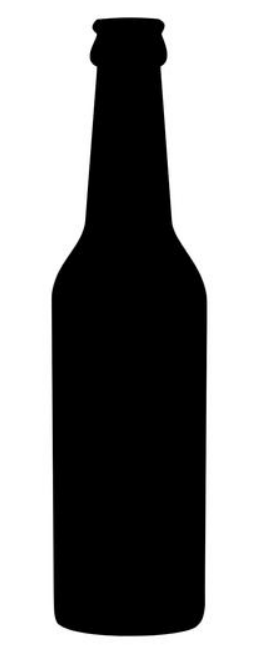
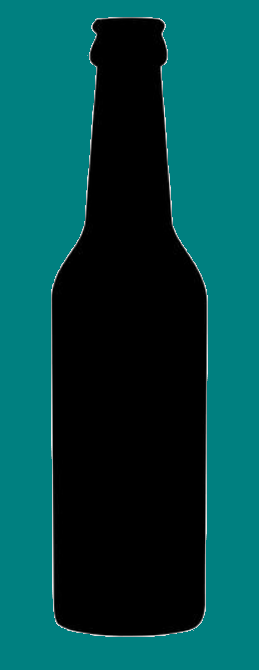
adjust some divs to clean up appearance

diff --git a/src/components/ReusableForm.js b/src/components/ReusableForm.js
@@ -14,30 +14,28 @@ function ReusableForm(props) {
   }
   return (
     <>
-      <div>
-        <form style={formStyle} onSubmit={props.formSubmissionHandler}>
-          <label>Keg Name</label>
-          <input type="text" name="name" placeholder="Name"></input>
-          <br />
-          <select defaultValue={"DEFAULT"} name="brand">
-            <option value="DEFAULT" disabled> -- choose brand --</option>
-            <option value="BrewMaster">BrewMaster</option>
-            <option value="MasterBrew">MasterBrew</option>
-            <option value="Sixteen Chickens in an Overcoat">Sixteen Chickens in an Overcoat</option>
-          </select>
-          <br />
-          <label>Price</label>
-          <input type="number" name="price" placeholder="Price"></input>
-          <br />
-          <label>Price</label>
-          <input type="string" name="flavor" placeholder="Flavor"></input>
-          <br />
-          <label>Stock(in pints)</label>
-          <input type="number" name="pintsLeft" defaultValue="120"></input>
-          <br />
-          <Button style={greenButton} id="formSubmitButton" className="btn" type="submit">{props.buttonText}</Button>
-        </form>
-      </div>
+      <form style={formStyle} onSubmit={props.formSubmissionHandler}>
+        <label>Keg Name</label>
+        <input type="text" name="name" placeholder="Name"></input>
+        <br />
+        <select defaultValue={"DEFAULT"} name="brand">
+          <option value="DEFAULT" disabled> -- choose brand --</option>
+          <option value="BrewMaster">BrewMaster</option>
+          <option value="MasterBrew">MasterBrew</option>
+          <option value="Sixteen Chickens in an Overcoat">Sixteen Chickens in an Overcoat</option>
+        </select>
+        <br />
+        <label>Price</label>
+        <input type="number" name="price" placeholder="Price"></input>
+        <br />
+        <label>Price</label>
+        <input type="string" name="flavor" placeholder="Flavor"></input>
+        <br />
+        <label>Stock(in pints)</label>
+        <input type="number" name="pintsLeft" defaultValue="120"></input>
+        <br />
+        <Button style={greenButton} id="formSubmitButton" className="btn" type="submit">{props.buttonText}</Button>
+      </form>
     </>
   );
 }

diff --git a/src/components/KegControl.js b/src/components/KegControl.js
@@ -148,6 +148,9 @@ class KegControl extends React.Component {
     return Math.floor(Math.random() * 5);
   }  
   render() {
+    const blurOn = {
+      backdropFilter: "blur(20px)",
+    }
     const yellowButton = {
       backgroundColor: "#33c4cc",
     }
@@ -206,7 +209,6 @@ class KegControl extends React.Component {
     let currentState = null;
     let buttonText = null;
     if(this.state.splashPageVisible){
-      
       currentState = <SplashPage buttonStyle={buttonStyle}/>
       buttonText = "Get Started";
       buttonStyle=yellowButton;
@@ -245,25 +247,34 @@ class KegControl extends React.Component {
       buttonStyle = blueButton;
       backgroundImage = backgroundImageArray[this.randomNumber()];
     }
-    const JVCDImageSize = {
-      width: 200,
-    }
+    // style={[backgroundImage, blur]}
     return (
       <>
-      <div style={backgroundImage} >
-        <div className="centered">
-          {currentState}
-          <Animate
-              play={true}
-              duration={1}
-              delay={.1}
-              start={{transform: 'translate(0,-200px)'}}
-              end={{transform: 'translate(0, 0)'}}
-              >
-              <Button style={buttonStyle} className="btn" onClick={this.handleClick}>{buttonText}</Button>
-          </Animate>
+      <Animate
+        play={true}
+        duration={2}
+        delay={.3}
+        start={{filter: 'hue-rotate(90deg)'}}
+        end={{filter: 'hue-rotate(0deg)'}}>
+        <div id="initialBackground">
+          <div style={backgroundImage}>
+            <div id="focus">
+              <div className="centered">
+                {currentState}
+                <Animate
+                  play={true}
+                  duration={.6}
+                  delay={1.5}
+                  start={{transform: 'scale(0)'}}
+                  end={{transform: 'scale(1)'}}
+                  >
+                  <Button style={buttonStyle} className="btn" onClick={this.handleClick}>{buttonText}</Button>
+                </Animate>
+              </div>
+            </div>
+          </div>
         </div>
-      </div>
+      </Animate>
       </>
     )
   }

diff --git a/src/components/SplashPage.js b/src/components/SplashPage.js
@@ -3,6 +3,7 @@ import {Card, CardBody, CardTitle, Container, Row, Col} from "reactstrap";
 import { Animate } from 'react-simple-animate';
 import JCVD from '../assets/JCVD.jpg';
 import bottle from '../assets/bottle.PNG';
+import colorCell from '../assets/colorCell.gif';
 import './../index.css';
 
 
@@ -14,13 +15,13 @@ function SplashPage(){
     width: 50,
   }
   const background = {
-    backgroundImage: "url('https://www.color-hex.com/palettes/19980.png')",
+    backgroundImage: `url(${colorCell})`,
     backgroundRepeat: "no-repeat",
     backgroundSize: "cover",
     color: "#fcfcfb",
     fontFamily: "Modak",
     letterSpacing: "2px",
-    fontSize: "40px",
+    fontSize: "60px",
     padding: "5px",
     margin: "10px",
     borderRadius: "15px",
@@ -32,15 +33,15 @@ function SplashPage(){
   return (
     
   <>
-  <Container>
-    <Row>
+  <Container >
+    <Row id="whiteSplashPageBar">
       <Col>
         <Animate
           play={true}
           duration={1.5}
           delay={.1}
-          start={{transform: `translate(-350px,${s})`}}
-          end={{transform: 'translate(100px, 0)'}}
+          start={{transform: `translate(-600px,${s})`}}
+          end={{transform: 'translate(80px, 0)'}}
           >
             <img src={JCVD} style={JVCDImageSize} alt="Jean Claude Van Damme"/>
         </Animate>
@@ -51,16 +52,16 @@ function SplashPage(){
           duration={.3}
           delay={1.5}
           start={{transform: 'translate(-100px,0)'}}
-          end={{transform: 'rotate(50deg)'}}
+          end={{transform: 'rotate(75deg)'}}
           >
             <img id="bottle" src={bottle} style={bottleImageSize} alt="Jean Claude Van Damme"/>
         </Animate>
       </Col>
     </Row>
   </Container>
-  <Card style={background}>
+  <Card  style={background}>
     <CardBody>
-      <CardTitle ><div >Welcome to the best Damme TapRoom in Town</div></CardTitle>
+      <CardTitle ><div>Welcome to the best Damme TapRoom in Town</div></CardTitle>
     </CardBody>
   </Card>
   </>

diff --git a/src/components/KegDetail.js b/src/components/KegDetail.js
@@ -24,26 +24,22 @@ function KegDetail(props){
   }
   return (
     <>
-    <div>
-      <Card>
-        <Animate
-          play={true}
-          duration={1}
-          delay={.1}
-          start={{transform: 'translate(0,-200px)'}}
-          end={{transform: 'translate(0, 0)'}}
+      <Animate
+        play={true}
+        duration={.5}
+        delay={.1}
+        start={{opacity: 0}}
+        end={{opacity: 100}}
         >
+      <Container>
+        <div>
           <CardHeader style={styleHead}>Product Detail</CardHeader>
           <CardBody style={styleBody}>
-            <p>Hi My Name Is: {keg.name}</p>
-            <p>Brand: {keg.brand}</p>
-            <p>Price: {keg.price}</p>
-            <p>Flavour: {keg.flavor}</p>
-            {console.log(keg.pintsLeft)}
-            <p>Pints Remaining: {keg.pintsLeft}</p>
-          </CardBody>
-          <CardFooter>
-            <Container>
+            <p className="detailsText">Name: <span className="detailsTextValue">{keg.name}</span></p>
+            <p className="detailsText">Brand: <span className="detailsTextValue">{keg.brand}</span></p>
+            <p className="detailsText">Price: <span className="detailsTextValue">${keg.price}</span></p>
+            <p className="detailsText">Flavour: <span className="detailsTextValue">{keg.flavor}</span></p>
+            <p className="detailsText">Pints Left: <span className="detailsTextValue">{keg.pintsLeft}</span></p>
               <Row>
                 <Col>
                   <Button style={yellowButton} onClick={()=> onClickingDelete(keg.id)}>Delete This keg</Button>
@@ -54,11 +50,10 @@ function KegDetail(props){
                   <Button style={blueButton} onClick={()=> onClickingStock(keg.id)}>Stock One Pint</Button>
                 </Col>
               </Row>
-            </Container>
-          </CardFooter>
-        </Animate>
-      </Card>
-    </div>
+          </CardBody>
+        </div>
+      </Container>
+    </Animate>
     </>
   );
 }

diff --git a/src/index.css b/src/index.css
@@ -1,5 +1,6 @@
 
 body {
+
   margin: 0;
   font-family: -apple-system, BlinkMacSystemFont, 'Segoe UI', 'Roboto', 'Oxygen',
     'Ubuntu', 'Cantarell', 'Fira Sans', 'Droid Sans', 'Helvetica Neue',
@@ -40,6 +41,26 @@ div.hover :hover {
   border-radius: 10px;
 }
 
-.animatedImageShowing {
-  visibility: hidden;
+.hidden {
+  opacity: 0;
+}
+
+p.detailsText {
+  justify-content: center;
+  font-size: 24px;
+  box-shadow: 2px 2px rgba(26, 24, 24, 0.733);
+  color: white;
+  font-weight: 600;
+}
+
+span.detailsTextValue {
+  justify-self: right;
+  font-size: 20px;
+  text-decoration: underline;
+  color: rgb(13, 47, 65);
+  font-weight: 600;
+  width: 50%;
+}
+div#initialBackground {
+  background-color: teal;
 }

diff --git a/src/components/KegList.js b/src/components/KegList.js
@@ -17,10 +17,10 @@ function KegList(props){
   }
   return (
     <React.Fragment>
-      <div style={formStyle}>
+      <div className="hover" style={formStyle}>
         <h1>Keg List</h1>
         {props.kegList.map((keg) =>
-        <div className="hover" style={kegStyle}>
+        <div style={kegStyle}>
           <Keg
             whenKegClicked = { props.onKegSelection}
             name={keg.name}

diff --git a/src/components/Keg.js b/src/components/Keg.js
@@ -6,7 +6,7 @@ function Keg(props){
     <>
       <div onClick = {() => props.whenKegClicked(props.id)}>
         <h4>{props.name}</h4>
-          <div  className="inner-div">
+          <div className="hover">
             <p>{props.brand}</p>
             <p>{props.price}</p>
             <p>{props.flavor}</p>
